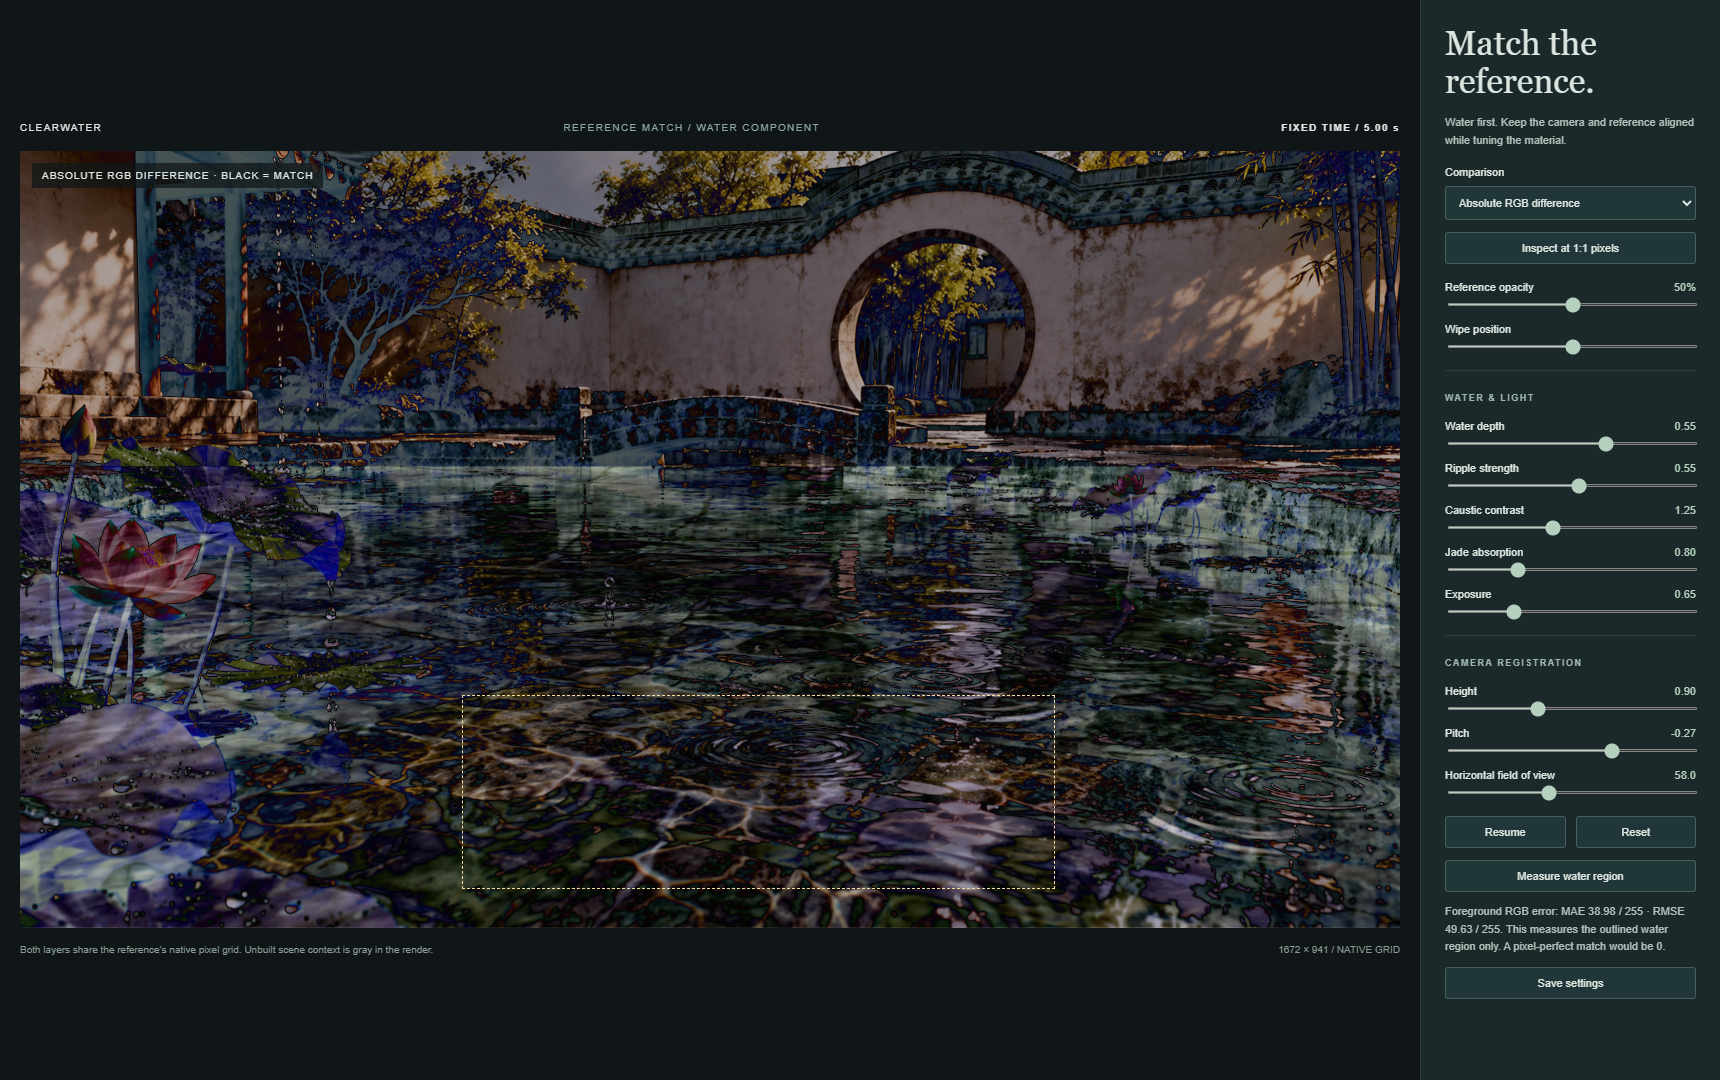
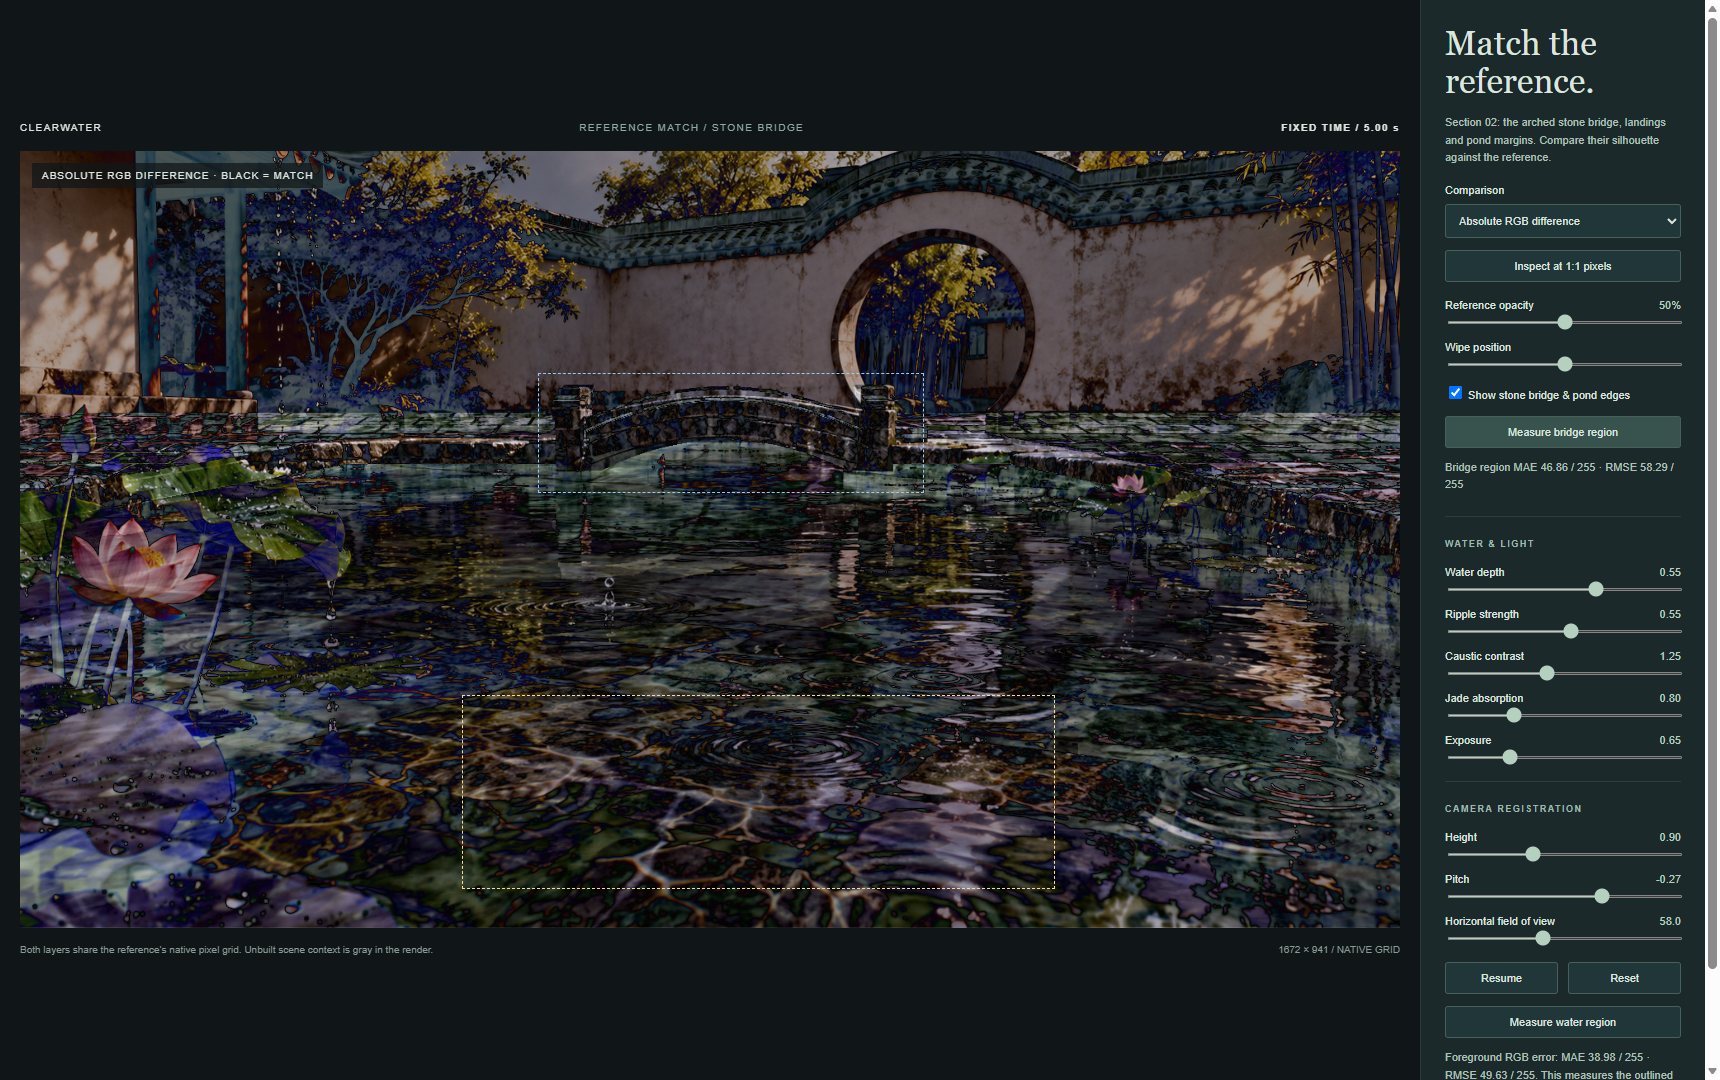
Add reference-aligned stone bridge and pond margins in CUDA

Changed region(s): [[0.0, 0.0, 1.0, 1.0], [0.3698, 0.0917, 0.4622, 0.1222]]

diff --git a/study/app.js b/study/app.js
@@ -1,15 +1,16 @@
 import {GpuRuntime} from '../vendor/cuda-webshader/runtime/runtime.js';
 const $=id=>document.getElementById(id),canvas=$('render'),reference=$('reference');
 const defaults={depth:.55,wave:.55,caustic:1.25,tint:.8,exposure:.65,height:.9,pitch:-.27,fov:58};
-const state={...defaults,time:5,playing:false},diag=window.studyDiagnostics={ready:false,errors:[],frames:0,state};
+const state={...defaults,stonework:1,time:5,playing:false},diag=window.studyDiagnostics={ready:false,errors:[],frames:0,state};
 const ids=Object.keys(defaults);let rt,pixels,stride,width,height,busy=false;
-function controls(){for(const id of ids){$(id).value=state[id];$(id+'Value').textContent=state[id].toFixed(id==='fov'?1:2);}$('pause').textContent=state.playing?'Pause':'Resume';}
+function controls(){$('stonework').checked=!!state.stonework;for(const id of ids){$(id).value=state[id];$(id+'Value').textContent=state[id].toFixed(id==='fov'?1:2);}$('pause').textContent=state.playing?'Pause':'Resume';}
 for(const id of ids)$(id).oninput=()=>{state[id]=+$(id).value;controls();};
-$('pause').onclick=()=>{state.playing=!state.playing;controls();};$('reset').onclick=()=>{Object.assign(state,defaults,{time:5,playing:false});controls();};
-function compare(){const mode=$('mode').value;reference.style.opacity=mode==='render'?'0':mode==='overlay'?$('opacity').value:'1';reference.style.mixBlendMode=mode==='difference'?'difference':'normal';reference.style.clipPath=mode==='wipe'?`inset(0 ${100-+$('wipe').value}% 0 0)`:'none';$('divider').style.display=mode==='wipe'?'block':'none';$('divider').style.left=$('wipe').value+'%';$('opacityValue').textContent=Math.round(+$('opacity').value*100)+'%';$('caption').textContent={render:'CUDA RENDER · WATER ONLY',reference:'GENERATED REFERENCE',overlay:'REFERENCE OVER CUDA RENDER',wipe:'REFERENCE ← | → CUDA RENDER',difference:'ABSOLUTE RGB DIFFERENCE · BLACK = MATCH'}[mode];}
+$('pause').onclick=()=>{state.playing=!state.playing;controls();};$('reset').onclick=()=>{Object.assign(state,defaults,{time:5,playing:false,stonework:1});controls();compare();};
+function compare(){const mode=$('mode').value;reference.style.opacity=mode==='render'?'0':mode==='overlay'?$('opacity').value:'1';reference.style.mixBlendMode=mode==='difference'?'difference':'normal';reference.style.clipPath=mode==='wipe'?`inset(0 ${100-+$('wipe').value}% 0 0)`:'none';$('divider').style.display=mode==='wipe'?'block':'none';$('divider').style.left=$('wipe').value+'%';$('opacityValue').textContent=Math.round(+$('opacity').value*100)+'%';$('caption').textContent={render:state.stonework?'CUDA RENDER · WATER + STONEWORK':'CUDA RENDER · WATER ONLY',reference:'GENERATED REFERENCE',overlay:'REFERENCE OVER CUDA RENDER',wipe:'REFERENCE ← | → CUDA RENDER',difference:'ABSOLUTE RGB DIFFERENCE · BLACK = MATCH'}[mode];}
 for(const id of ['mode','opacity','wipe'])$(id).oninput=compare;
 $('save').onclick=()=>{const a=document.createElement('a');a.href=URL.createObjectURL(new Blob([JSON.stringify({reference:'jiangnan-pond-concept-v1.png',width,height,...state},null,2)],{type:'application/json'}));a.download='water-study-settings.json';a.click();setTimeout(()=>URL.revokeObjectURL(a.href),1000);};
 $('zoom').onclick=()=>{const zoom=document.body.classList.toggle('nativePixels');$('zoom').textContent=zoom?'Fit comparison to window':'Inspect at 1:1 pixels';};
+$('stonework').onchange=()=>{state.stonework=$('stonework').checked?1:0;compare();};
 controls();compare();
 function fail(e){diag.errors.push(String(e.message||e));$('error').hidden=false;$('error').textContent=diag.errors.join('\n');$('status').textContent='ERROR';console.error(e);}
 try{
@@ -24,11 +25,12 @@ const ctx=canvas.getContext('webgpu');ctx.configure({device:rt.device,format:'rg
 async function frame(now){try{if(busy){requestAnimationFrame(frame);return;}busy=true;const dt=last?Math.min(.05,(now-last)/1000):0;last=now;if(state.playing)state.time+=dt;
 const batch=rt.batch();batch.dispatch(k.evolve_spectrum.bind({seed,scales,output:fft[0],weather,spectralEnergy},{time:state.time,sea:1,depth:state.depth,weatherDt:0}),WG);
 let src=0;for(let axis=0;axis<2;axis++)for(let p=1;p<256;p*=2){batch.dispatch(k.fft_pass.bind({input:fft[src],output:fft[1-src]},{p,axis,sign:1}),WG);src=1-src;}
-batch.dispatch(k.resolve_surface.bind({input:fft[src],surface}),WG).dispatch(k.clear_caustics.bind({photons}),[64,64,1]).dispatch(k.study_caustics.bind({surface,photons},{depth:state.depth,wave:state.wave,time:state.time}),[128,128,1]).dispatch(k.filter_caustics.bind({photons,caustics}),[64,64,1]).dispatch(k.study_render.bind({surface,caustics,hdr},{width,height,cameraHeight:state.height,pitch:state.pitch,fov:state.fov,depth:state.depth,wave:state.wave,caustic:state.caustic,tint:state.tint,time:state.time}),grid).dispatch(k.study_present.bind({hdr,image:pixels},{width,height,stride,exposure:state.exposure}),grid).submit();
+batch.dispatch(k.resolve_surface.bind({input:fft[src],surface}),WG).dispatch(k.clear_caustics.bind({photons}),[64,64,1]).dispatch(k.study_caustics.bind({surface,photons},{depth:state.depth,wave:state.wave,time:state.time}),[128,128,1]).dispatch(k.filter_caustics.bind({photons,caustics}),[64,64,1]).dispatch(k.study_render.bind({surface,caustics,hdr},{width,height,cameraHeight:state.height,pitch:state.pitch,fov:state.fov,depth:state.depth,wave:state.wave,caustic:state.caustic,tint:state.tint,time:state.time,stonework:state.stonework}),grid).dispatch(k.study_present.bind({hdr,image:pixels},{width,height,stride,exposure:state.exposure}),grid).submit();
 const enc=rt.device.createCommandEncoder();enc.copyBufferToTexture({buffer:pixels.gpuBuffer,bytesPerRow:stride*4,rowsPerImage:height},{texture:ctx.getCurrentTexture()},[width,height]);rt.device.queue.submit([enc.finish()]);await rt.idle();diag.ready=true;diag.frames++;diag.readbackBytes=rt.stats.readbackBytes;$('status').textContent=state.playing?'LIVE':`FIXED TIME / ${state.time.toFixed(2)} s`;busy=false;requestAnimationFrame(frame);
 }catch(e){busy=false;fail(e);}}
-async function measure(){state.playing=false;controls();while(busy)await new Promise(r=>setTimeout(r,10));busy=true;try{await rt.idle();const packed=await rt.read(pixels,Uint32Array);const c=document.createElement('canvas');c.width=width;c.height=height;const two=c.getContext('2d',{willReadFrequently:true});two.drawImage(reference,0,0);const target=two.getImageData(0,0,width,height).data;let absolute=0,squares=0,count=0;for(let y=Math.ceil(height*.7);y<Math.floor(height*.95);y++)for(let x=Math.ceil(width*.32);x<Math.floor(width*.75);x++){let p=packed[y*stride+x];for(let channel=0;channel<3;channel++){const delta=((p>>>(channel*8))&255)-target[(y*width+x)*4+channel];absolute+=Math.abs(delta);squares+=delta*delta;count++;}}
+async function measure(region=[.32,.7,.75,.95]){state.playing=false;controls();while(busy)await new Promise(r=>setTimeout(r,10));busy=true;try{await rt.idle();const packed=await rt.read(pixels,Uint32Array);const c=document.createElement('canvas');c.width=width;c.height=height;const two=c.getContext('2d',{willReadFrequently:true});two.drawImage(reference,0,0);const target=two.getImageData(0,0,width,height).data;let absolute=0,squares=0,count=0;for(let y=Math.ceil(height*region[1]);y<Math.floor(height*region[3]);y++)for(let x=Math.ceil(width*region[0]);x<Math.floor(width*region[2]);x++){let p=packed[y*stride+x];for(let channel=0;channel<3;channel++){const delta=((p>>>(channel*8))&255)-target[(y*width+x)*4+channel];absolute+=Math.abs(delta);squares+=delta*delta;count++;}}
 const rowEdgesOpaque=Array.from({length:height},(_,y)=>(packed[y*stride]>>>24)===255&&(packed[y*stride+width-1]>>>24)===255).every(Boolean);
-const result={rowEdgesOpaque,mae:absolute/count,rmse:Math.sqrt(squares/count),region:[.32,.7,.75,.95],width,height,state:{...state}};diag.measurement=result;$('metric').textContent=`Foreground RGB error: MAE ${result.mae.toFixed(2)} / 255 · RMSE ${result.rmse.toFixed(2)} / 255. This measures the outlined water region only. A pixel-perfect match would be 0.`;return result;}finally{busy=false;}}
-$('measure').onclick=()=>measure().catch(fail);window.studyLab={state,measure};requestAnimationFrame(frame);
+const result={rowEdgesOpaque,mae:absolute/count,rmse:Math.sqrt(squares/count),region,width,height,state:{...state}};diag.measurement=result;if(region[1]>.5)$('metric').textContent=`Foreground RGB error: MAE ${result.mae.toFixed(2)} / 255 · RMSE ${result.rmse.toFixed(2)} / 255. This measures the outlined water region only. A pixel-perfect match would be 0.`;return result;}finally{busy=false;}}
+$('measure').onclick=()=>measure().catch(fail);
+$('bridgeMeasure').onclick=()=>measure([.375,.285,.655,.44]).then(r=>{$('bridgeMetric').textContent=`Bridge region MAE ${r.mae.toFixed(2)} / 255 · RMSE ${r.rmse.toFixed(2)} / 255`;}).catch(fail);window.studyLab={state,measure};requestAnimationFrame(frame);
 }catch(e){fail(e);}

diff --git a/study/index.html b/study/index.html
@@ -1,12 +1,12 @@
 <!doctype html><html lang="en"><head><meta charset="utf-8"><meta name="viewport" content="width=device-width,initial-scale=1"><title>Clearwater · Reference study</title><link rel="icon" href="data:,"><link rel="stylesheet" href="style.css"></head><body>
-<main><header><a href="../">CLEARWATER</a><span>REFERENCE MATCH / WATER COMPONENT</span><b id="status">COMPILING</b></header>
-<div id="stage"><canvas id="render"></canvas><img id="reference" src="../references/jiangnan-pond-concept-v1.png" alt="Generated Jiangnan pond reference"><div id="divider"></div><div id="roi"></div><span id="caption">CUDA RENDER</span></div>
+<main><header><a href="../">CLEARWATER</a><span>REFERENCE MATCH / STONE BRIDGE</span><b id="status">COMPILING</b></header>
+<div id="stage"><canvas id="render"></canvas><img id="reference" src="../references/jiangnan-pond-concept-v1.png" alt="Generated Jiangnan pond reference"><div id="divider"></div><div id="roi"></div><div id="bridgeRoi"></div><span id="caption">CUDA RENDER</span></div>
 <footer>Both layers share the reference’s native pixel grid. Unbuilt scene context is gray in the render.<span id="resolution"></span></footer></main>
-<aside><h1>Match the<br>reference.</h1><p>Water first. Keep the camera and reference aligned while tuning the material.</p>
+<aside><h1>Match the<br>reference.</h1><p>Section 02: the arched stone bridge, landings and pond margins. Compare their silhouette against the reference.</p>
 <label>Comparison<select id="mode"><option value="overlay">Opacity overlay</option><option value="render">CUDA render only</option><option value="reference">Reference only</option><option value="wipe">Wipe comparison</option><option value="difference">Absolute RGB difference</option></select></label>
 <button id="zoom">Inspect at 1:1 pixels</button><label>Reference opacity <output id="opacityValue">50%</output><input id="opacity" type="range" min="0" max="1" step=".01" value=".5"></label>
 <label>Wipe position<input id="wipe" type="range" min="0" max="100" value="50"></label>
-<hr><h2>WATER & LIGHT</h2>
+<label><input id="stonework" type="checkbox" checked> Show stone bridge & pond edges</label><button id="bridgeMeasure">Measure bridge region</button><p id="bridgeMetric">Blue outline: bridge silhouette and stonework.</p><hr><h2>WATER & LIGHT</h2>
 <label>Water depth <output id="depthValue"></output><input id="depth" type="range" min=".1" max=".8" step=".01" value=".28"></label>
 <label>Ripple strength <output id="waveValue"></output><input id="wave" type="range" min=".05" max="1" step=".01" value=".32"></label>
 <label>Caustic contrast <output id="causticValue"></output><input id="caustic" type="range" min="0" max="3" step=".05" value="1.5"></label>

diff --git a/study/style.css b/study/style.css
@@ -1,3 +1,5 @@
 *{box-sizing:border-box}body{margin:0;background:#101617;color:#dce5df;font:12px Arial}main{position:fixed;inset:0 300px 0 0;display:flex;flex-direction:column;padding:20px;justify-content:center}header{display:flex;justify-content:space-between;margin-bottom:18px;font-size:10px;letter-spacing:1.4px}header a{color:#dce5df;text-decoration:none}header span{color:#8eaaa2}#stage{position:relative;width:100%;aspect-ratio:1672/941;background:#293337;overflow:hidden;isolation:isolate}canvas,#reference{position:absolute;inset:0;width:100%;height:100%;display:block}#reference{pointer-events:none}#divider{position:absolute;top:0;bottom:0;left:50%;border-left:1px solid white;display:none}#caption{position:absolute;left:12px;top:12px;padding:7px 10px;background:#101617bc;font-size:10px;letter-spacing:1px}#roi{position:absolute;left:32%;top:70%;width:43%;height:25%;border:1px dashed #f5dda1;pointer-events:none}footer{display:flex;justify-content:space-between;gap:20px;line-height:1.6;color:#899b94;font-size:10px;margin-top:14px}aside{position:fixed;right:0;top:0;bottom:0;width:300px;padding:24px;overflow:auto;background:#1b292b;border-left:1px solid #ffffff14}h1{font:34px Georgia;margin:0 0 14px}h2{font-size:9px;letter-spacing:1.5px;color:#9db7ac}p{font-size:11px;line-height:1.6;color:#afc1b9}label{display:block;margin:17px 0 0;font-size:11px}output{float:right;color:#b5d0be}input[type=range]{width:100%;display:block;margin-top:10px;accent-color:#b5d0be;height:3px}select,button{border:1px solid #47605a;border-radius:3px;background:#213638;color:#dce5df;padding:9px;font:11px Arial}select{display:block;width:100%;margin-top:8px}button{cursor:pointer}button:hover{background:#38534d}hr{border:0;border-top:1px solid #ffffff16;margin:22px 0}.buttons{display:flex;gap:10px;margin:22px 0 12px}.buttons>*{flex:1}#measure,#save{width:100%}#error{white-space:pre-wrap;color:#ffada5}@media(max-width:850px){main{right:240px;padding:10px}aside{width:240px;padding:16px}header span{display:none}footer{display:block}}@media(max-width:600px){main{position:relative;inset:auto;height:55vh}aside{position:relative;width:100%;height:45vh}header{font-size:9px}}
 
 body.nativePixels main{overflow:auto;display:block}body.nativePixels #stage{width:1672px;height:941px;flex-shrink:0}#zoom{margin-top:12px;width:100%}
+
+#bridgeRoi{position:absolute;left:37.5%;top:28.5%;width:28%;height:15.5%;border:1px dashed #9bc9ed;pointer-events:none}#bridgeMeasure{width:100%;margin-top:14px}

diff --git a/README.md b/README.md
@@ -8,11 +8,11 @@ A CUDA reimplementation of [Aurélien / Lumaris's Clearwater](https://github.com
 
 ## Reference matching study
 
-**[Open the reference comparison](https://samg-coder.github.io/clearwater/study/)** or visit `/study/` locally. This is the water-component pass for the generated Jiangnan garden concept. It uses the reference's exact 1672 × 941 pixel grid, with adjustable opacity overlay, wipe, absolute RGB difference, and a scrollable 1:1 pixel inspection view. Pause locks wave time for repeatable comparisons; camera height, pitch, field of view, water depth, exposure, absorption, and ripple strength are adjustable.
+**[Open the reference comparison](https://samg-coder.github.io/clearwater/study/)** or visit `/study/` locally. This study builds the generated Jiangnan garden concept one component at a time. The current pass adds the stone bridge and pond edges to the water. It uses the reference's exact 1672 × 941 pixel grid, with adjustable opacity overlay, wipe, absolute RGB difference, and a scrollable 1:1 pixel inspection view. Pause locks wave time for repeatable comparisons; camera height, pitch, field of view, water depth, exposure, absorption, and ripple strength are adjustable.
 
-[`study/study.cu`](study/study.cu) renders submerged stone, FFT refraction, RGB photon caustics, and isolated drop rings. The caustics use a bounded 4 m photon tile at the selected bed depth; this is an optical approximation. A procedural lighting proxy supplies reflected foliage and plaster. The reference PNG is a separate DOM comparison layer and is never sampled by the CUDA renderer. The upper scene remains gray because the garden architecture and plants have not been assembled. **The rendered content is not yet a pixel-perfect match.** Stone arrangement, reflections, and scene silhouettes remain unfinished.
+[`study/study.cu`](study/study.cu) renders submerged stone, FFT refraction, RGB photon caustics, and isolated drop rings. The caustics use a bounded 4 m photon tile at the selected bed depth; this is an optical approximation. The stone bridge, paired curved parapets, arched walking slab, capped posts, landings, and tapered pond edges are traced as world-space geometry. Procedural stone joints, mottling, moss, and wet waterlines shade their surfaces. The same geometry appears in water reflections and shadows the pond bed. A procedural lighting proxy still supplies reflected foliage and plaster. The reference PNG is a separate DOM comparison layer and is never sampled by the CUDA renderer. The upper scene remains gray because the moon-gate wall, pavilion, and plants have not been assembled. **The rendered content is not yet a pixel-perfect match.** Exact stone arrangement, lighting, and remaining scene silhouettes are still being refined.
 
-The optional measurement button reads the GPU output and reports RGB MAE/RMSE for the outlined foreground-water rectangle. It excludes most surrounding objects, so it is not a full-scene score. Normal rendering performs no CPU readback. `npm run test:study` checks exact image/canvas alignment, row padding, comparison modes, pause, material controls, and measurement repeatability in Edge against port 5186. Save settings exports the comparison parameters as JSON.
+The optional measurement buttons read the GPU output and report RGB MAE/RMSE for the gold foreground-water rectangle or blue bridge rectangle. The stonework checkbox returns to the water-only view. It excludes most surrounding objects, so it is not a full-scene score. Normal rendering performs no CPU readback. `npm run test:study` checks exact image/canvas alignment, row padding, comparison modes, pause, material controls, and measurement repeatability in Edge against port 5186. Save settings exports the comparison parameters as JSON.
 
 ## Water cube test
 
